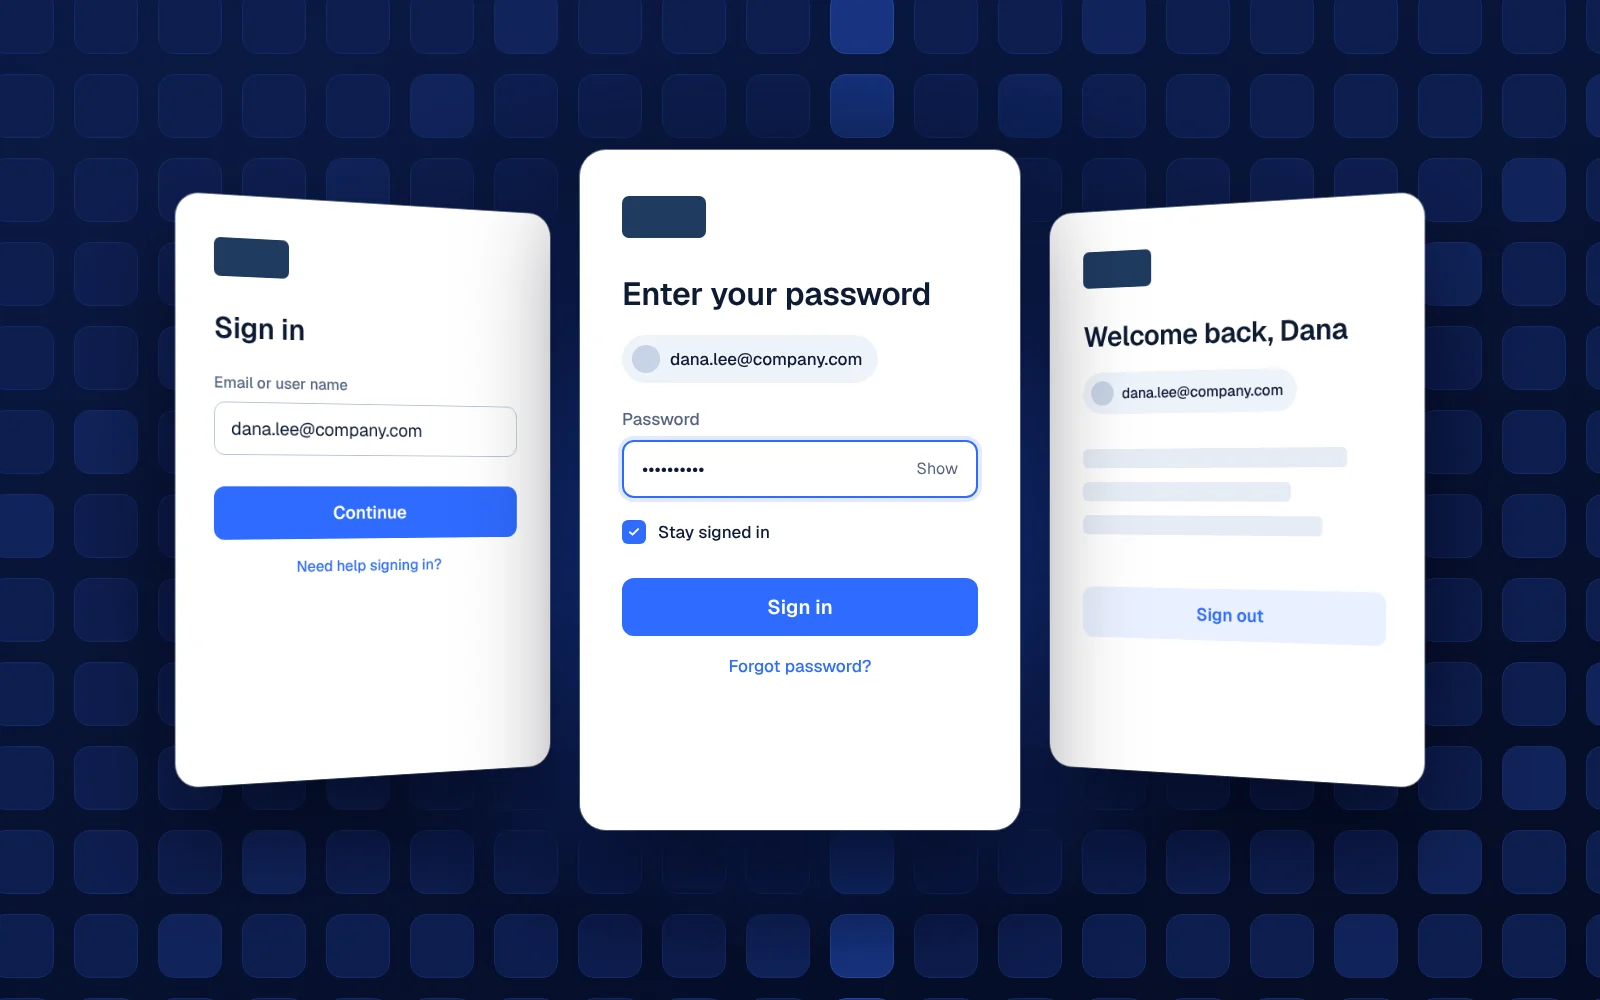
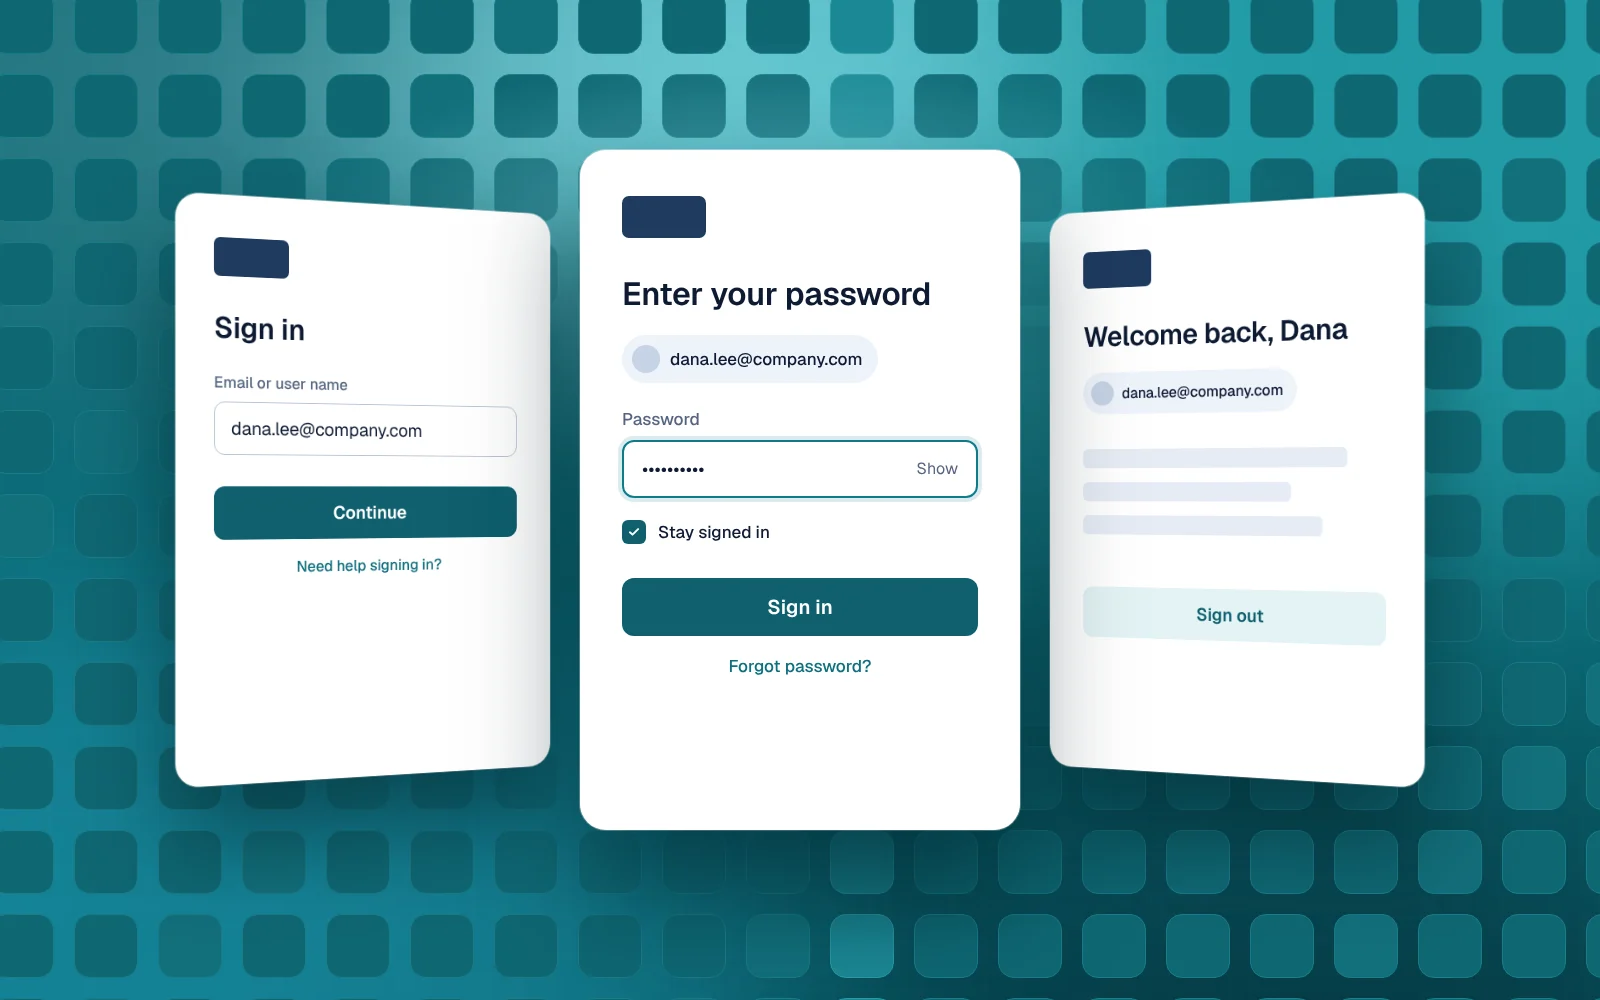
Covers take the palettes of their hover previews
Claude-Session: https://claude.ai/code/session_019w2zt4LnTxjnuLeFmr6vDP

diff --git a/tools/covers/crafted.html b/tools/covers/crafted.html
@@ -12,7 +12,7 @@ body{background:#222;display:grid;gap:40px;padding:40px;width:1680px;font-family
 svg{display:block}
 
 /* ---------- Agentic: indigo ---------- */
-#sap-agentic{background:radial-gradient(900px 620px at 37% 50%,#2B2F86 0%,#141A4E 42%,#0A0E2A 75%,#070A1D 100%)}
+#sap-agentic{background:radial-gradient(900px 620px at 37% 50%,#22307A 0%,#121B48 42%,#0B112E 75%,#080C21 100%)}
 #sap-agentic .card{position:absolute;background:#171D47;border:1.5px solid #3A4290;border-radius:22px;box-shadow:0 30px 60px rgba(3,5,20,.55),0 2px 0 rgba(255,255,255,.04) inset}
 #sap-agentic .doc{left:80px;width:370px;height:124px;display:flex;align-items:center;gap:22px;padding:0 28px}
 #sap-agentic .doc .ic{width:62px;height:62px;border-radius:14px;display:grid;place-items:center;flex:none}
@@ -30,75 +30,75 @@ svg{display:block}
 #sap-agentic .btn{height:52px;border-radius:12px;display:grid;place-items:center;font:600 19px/1 Geist;margin-top:16px}
 
 /* ---------- Search: copper ---------- */
-#sap-search{background:radial-gradient(760px 520px at 30% 18%,#7A3B12 0%,rgba(122,59,18,0) 70%),radial-gradient(900px 700px at 85% 100%,#4A1E10 0%,rgba(74,30,16,0) 70%),linear-gradient(160deg,#1C110B 0%,#120B07 60%,#0D0806 100%)}
-#sap-search .bar{position:absolute;left:230px;top:150px;width:1140px;height:116px;border-radius:30px;background:#22150D;border:2.5px solid #F2A65A;box-shadow:0 0 0 9px rgba(242,166,90,.12),0 0 70px rgba(242,140,60,.45),0 30px 60px rgba(0,0,0,.5);display:flex;align-items:center;padding:0 36px;gap:26px}
-#sap-search .q{font:500 44px/1 Geist;color:#FFF3E6;letter-spacing:-.01em;flex:1}
-#sap-search .q i{display:inline-block;width:3px;height:46px;background:#F2A65A;vertical-align:-9px;margin-left:5px}
-#sap-search .k{font:600 18px/1 Geist;color:#D8B898;background:#3A2516;border-radius:10px;padding:10px 14px}
-#sap-search .panel{position:absolute;left:230px;top:302px;width:1140px;height:560px;border-radius:30px;background:#1B110B;border:1.5px solid #4A3020;box-shadow:0 50px 90px rgba(0,0,0,.6);padding:34px 36px}
-#sap-search .ov{display:flex;align-items:center;gap:14px;font:500 22px/1.2 Geist;color:#F6DCC0;background:#2A1A10;border:1.5px solid #5A3A22;border-radius:16px;padding:18px 22px}
+#sap-search{background:url('../../public/images/mesh/sap-search-cover.webp') center/cover}
+#sap-search .bar{position:absolute;left:230px;top:150px;width:1140px;height:116px;border-radius:30px;background:#15134A;border:2.5px solid #B4ABFF;box-shadow:0 0 0 9px rgba(180,171,255,.16),0 0 70px rgba(150,140,255,.5),0 30px 60px rgba(8,6,40,.5);display:flex;align-items:center;padding:0 36px;gap:26px}
+#sap-search .q{font:500 44px/1 Geist;color:#F3F1FF;letter-spacing:-.01em;flex:1}
+#sap-search .q i{display:inline-block;width:3px;height:46px;background:#B4ABFF;vertical-align:-9px;margin-left:5px}
+#sap-search .k{font:600 18px/1 Geist;color:#C9C4F5;background:#272466;border-radius:10px;padding:10px 14px}
+#sap-search .panel{position:absolute;left:230px;top:302px;width:1140px;height:560px;border-radius:30px;background:#131140;border:1.5px solid #34318A;box-shadow:0 50px 90px rgba(8,6,40,.55);padding:34px 36px}
+#sap-search .ov{display:flex;align-items:center;gap:14px;font:500 22px/1.2 Geist;color:#E6E2FF;background:#1E1B5A;border:1.5px solid #3F3B9E;border-radius:16px;padding:18px 22px}
 #sap-search .chips{display:flex;gap:12px;margin:26px 0 12px}
-#sap-search .chips span{font:500 19px/1 Geist;color:#E8CBAE;background:#2D1D12;border-radius:999px;padding:13px 22px}
-#sap-search .chips span.on{background:#F2A65A;color:#2A1608}
+#sap-search .chips span{font:500 19px/1 Geist;color:#D6D2FA;background:#221F5E;border-radius:999px;padding:13px 22px}
+#sap-search .chips span.on{background:#8C80FF;color:#fff}
 #sap-search .row{display:flex;align-items:center;gap:24px;padding:18px 22px;border-radius:18px}
-#sap-search .row.hot{background:#33200F;box-shadow:0 0 0 1.5px #6A4426 inset}
-#sap-search .ring{width:46px;height:46px;border-radius:12px;background:#2B1C12;display:grid;place-items:center;flex:none}
-#sap-search .ring i{width:20px;height:20px;border-radius:50%;border:2.5px solid #C9A07A}
+#sap-search .row.hot{background:#232062;box-shadow:0 0 0 1.5px #4D48B8 inset}
+#sap-search .ring{width:46px;height:46px;border-radius:12px;background:#221F5E;display:grid;place-items:center;flex:none}
+#sap-search .ring i{width:20px;height:20px;border-radius:50%;border:2.5px solid #A7A0E8}
 #sap-search .t{flex:1;min-width:0}
-#sap-search .t b{display:block;font:500 25px/1.1 Geist;color:#FFF1E2;white-space:nowrap}
-#sap-search .t span{display:block;font:400 18px/1 Geist;color:#B8957A;margin-top:9px}
-#sap-search .src{width:190px;display:flex;align-items:center;gap:12px;font:500 19px/1 Geist;color:#E6CDB4}
+#sap-search .t b{display:block;font:500 25px/1.1 Geist;color:#F3F1FF;white-space:nowrap}
+#sap-search .t span{display:block;font:400 18px/1 Geist;color:#9F9AD6;margin-top:9px}
+#sap-search .src{width:190px;display:flex;align-items:center;gap:12px;font:500 19px/1 Geist;color:#D6D2FA}
 #sap-search .src i{width:14px;height:14px;border-radius:50%}
-#sap-search .act{width:150px;height:50px;border-radius:999px;display:grid;place-items:center;font:600 19px/1 Geist;color:#FFE4C7;border:1.5px solid #7A5130}
-#sap-search .act.p{background:#F2A65A;border-color:#F2A65A;color:#2A1608}
+#sap-search .act{width:150px;height:50px;border-radius:999px;display:grid;place-items:center;font:600 19px/1 Geist;color:#E6E2FF;border:1.5px solid #4D48B8}
+#sap-search .act.p{background:#8C80FF;border-color:#8C80FF;color:#fff}
 
 /* ---------- Collections: jade ---------- */
-#sap-collections{background:radial-gradient(800px 600px at 72% 40%,#0F6B5C 0%,rgba(15,107,92,0) 70%),linear-gradient(150deg,#06231F 0%,#041915 55%,#03110F 100%)}
+#sap-collections{background:url('../../public/images/mesh/sap-collections-cover.webp') center/cover}
 #sap-collections .wl{position:absolute;left:70px;top:150px;width:900px;height:700px;border-radius:26px;background:#F7FAF9;box-shadow:0 60px 100px rgba(0,0,0,.55);transform:perspective(1800px) rotateY(16deg) rotateX(4deg);transform-origin:0 50%;padding:34px 36px;overflow:hidden}
-#sap-collections .wl h3{font:600 28px/1 Geist;color:#13302B}
+#sap-collections .wl h3{font:600 28px/1 Geist;color:#0A2850}
 #sap-collections .wl .sub{font:400 18px/1 Geist;color:#5B7470;margin-top:10px}
 #sap-collections .wl .hd,#sap-collections .wl .r{display:grid;grid-template-columns:1.6fr 1fr 1fr 1fr;align-items:center;gap:14px}
 #sap-collections .wl .hd{margin-top:30px;padding:0 6px 14px;border-bottom:1.5px solid #DCE6E3;font:600 15px/1 Geist;color:#6B827E;letter-spacing:.06em;text-transform:uppercase}
 #sap-collections .wl .r{padding:20px 6px;border-bottom:1.5px solid #E7EEEC;font:500 20px/1 Geist;color:#13302B}
 #sap-collections .wl .r small{display:block;font:400 15px/1 Geist;color:#6B827E;margin-top:7px}
 #sap-collections .pr{display:inline-flex;align-items:center;gap:8px;font:600 16px/1 Geist;border-radius:8px;padding:8px 11px}
-#sap-collections .nba{position:absolute;left:880px;top:270px;width:620px;height:470px;border-radius:28px;background:#0E2E29;border:2px solid #3FC7A8;box-shadow:0 0 0 9px rgba(63,199,168,.10),0 0 80px rgba(63,199,168,.35),0 50px 90px rgba(0,0,0,.6);padding:38px 40px}
-#sap-collections .nba .ov{font:600 16px/1 Geist;color:#7FE3C9;letter-spacing:.12em;text-transform:uppercase;display:flex;align-items:center;gap:10px}
-#sap-collections .nba h3{font:500 34px/1.2 Geist;color:#F1FFFB;margin-top:22px;letter-spacing:-.01em}
+#sap-collections .nba{position:absolute;left:880px;top:270px;width:620px;height:470px;border-radius:28px;background:#0A2850;border:2px solid #7CC8F2;box-shadow:0 0 0 9px rgba(124,200,242,.14),0 0 80px rgba(124,200,242,.4),0 50px 90px rgba(2,16,40,.55);padding:38px 40px}
+#sap-collections .nba .ov{font:600 16px/1 Geist;color:#9AD6F7;letter-spacing:.12em;text-transform:uppercase;display:flex;align-items:center;gap:10px}
+#sap-collections .nba h3{font:500 34px/1.2 Geist;color:#F2F9FF;margin-top:22px;letter-spacing:-.01em}
 #sap-collections .nba ul{list-style:none;margin-top:26px;display:grid;gap:14px}
-#sap-collections .nba li{display:flex;gap:14px;font:400 20px/1.35 Geist;color:#BFE3DA}
-#sap-collections .nba li i{width:8px;height:8px;border-radius:50%;background:#3FC7A8;margin-top:10px;flex:none}
+#sap-collections .nba li{display:flex;gap:14px;font:400 20px/1.35 Geist;color:#BFD8EC}
+#sap-collections .nba li i{width:8px;height:8px;border-radius:50%;background:#7CC8F2;margin-top:10px;flex:none}
 #sap-collections .nba .btns{display:flex;gap:14px;margin-top:36px}
 #sap-collections .nba .btns span{height:56px;border-radius:14px;padding:0 28px;display:grid;place-items:center;font:600 20px/1 Geist}
-#sap-collections .who{position:absolute;left:1180px;top:770px;display:flex;align-items:center;gap:14px;background:#F1FFFB;color:#0E2E29;border-radius:999px;padding:14px 24px 14px 14px;font:600 19px/1 Geist;box-shadow:0 20px 40px rgba(0,0,0,.45)}
-#sap-collections .who i{width:36px;height:36px;border-radius:50%;background:#0E2E29;display:grid;place-items:center}
+#sap-collections .who{position:absolute;left:1180px;top:770px;display:flex;align-items:center;gap:14px;background:#F2F9FF;color:#0A2850;border-radius:999px;padding:14px 24px 14px 14px;font:600 19px/1 Geist;box-shadow:0 20px 40px rgba(0,0,0,.45)}
+#sap-collections .who i{width:36px;height:36px;border-radius:50%;background:#0A2850;display:grid;place-items:center}
 
 /* ---------- Sign-in: cobalt ---------- */
-#sap-signin{background:radial-gradient(760px 560px at 50% 55%,#1F4FC2 0%,rgba(31,79,194,0) 72%),linear-gradient(160deg,#0A1A45 0%,#071233 55%,#050C24 100%)}
+#sap-signin{background:url('../../public/images/mesh/sap-signin-cover.webp') center/cover}
 #sap-signin .tiles{position:absolute;inset:-40px;display:grid;grid-template-columns:repeat(22,64px);gap:20px;padding:30px;-webkit-mask-image:radial-gradient(ellipse at 50% 50%,transparent 26%,#000 60%)}
-#sap-signin .tiles i{width:64px;height:64px;border-radius:16px;background:#0D1D4E;border:1.5px solid #152B66}
-#sap-signin .tiles i:nth-child(7n){background:#10235A}
-#sap-signin .tiles i:nth-child(11n){background:#173480;border-color:#24479A}
-#sap-signin .card{position:absolute;top:170px;width:440px;height:640px;border-radius:26px;background:#FFFFFF;box-shadow:0 60px 110px rgba(0,4,20,.6),0 0 0 1px rgba(255,255,255,.4);padding:46px 42px}
+#sap-signin .tiles i{width:64px;height:64px;border-radius:16px;background:#0F6773;border:1.5px solid #1A7C88}
+#sap-signin .tiles i:nth-child(7n){background:#126F7B}
+#sap-signin .tiles i:nth-child(11n){background:#1B8794;border-color:#2B9AA6}
+#sap-signin .card{position:absolute;top:170px;width:440px;height:640px;border-radius:26px;background:#FFFFFF;box-shadow:0 60px 110px rgba(2,30,36,.55),0 0 0 1px rgba(255,255,255,.4);padding:46px 42px}
 #sap-signin .logo{width:84px;height:42px;border-radius:7px;background:#1F3A5F}
 #sap-signin h4{font:600 32px/1.1 Geist;color:#0E1B33;margin-top:38px;letter-spacing:-.01em}
 #sap-signin .lab{font:500 17px/1 Geist;color:#556580;margin-top:34px}
 #sap-signin .in{height:58px;border-radius:12px;border:1.5px solid #B7C2D3;margin-top:12px;display:flex;align-items:center;padding:0 18px;font:400 20px/1 Geist;color:#0E1B33}
-#sap-signin .in.f{border:2px solid #2F6BFF;box-shadow:0 0 0 4px rgba(47,107,255,.15)}
-#sap-signin .cta{height:58px;border-radius:12px;background:#2F6BFF;color:#fff;font:600 20px/1 Geist;display:grid;place-items:center;margin-top:34px}
-#sap-signin .lnk{font:500 17px/1 Geist;color:#2F6BFF;margin-top:22px;text-align:center}
+#sap-signin .in.f{border:2px solid #0F7C8C;box-shadow:0 0 0 4px rgba(15,124,140,.15)}
+#sap-signin .cta{height:58px;border-radius:12px;background:#0F5F6E;color:#fff;font:600 20px/1 Geist;display:grid;place-items:center;margin-top:34px}
+#sap-signin .lnk{font:500 17px/1 Geist;color:#0F6E7E;margin-top:22px;text-align:center}
 #sap-signin .chip{display:inline-flex;align-items:center;gap:10px;margin-top:24px;background:#EEF3FB;border-radius:999px;padding:10px 16px 10px 10px;font:500 17px/1 Geist;color:#0E1B33}
 #sap-signin .chip i{width:28px;height:28px;border-radius:50%;background:#C7D3E6}
 
 /* ---------- Compositional: violet ---------- */
-#sap-compositional{background:radial-gradient(760px 600px at 46% 56%,#5B2AA8 0%,rgba(91,42,168,0) 70%),radial-gradient(700px 500px at 95% 10%,#7A1F6E 0%,rgba(122,31,110,0) 70%),linear-gradient(160deg,#170B33 0%,#100726 60%,#0B051C 100%)}
+#sap-compositional{background:url('../../public/images/mesh/sap-compositional-cover.webp') center/cover}
 #sap-compositional .prompt{position:absolute;left:90px;top:120px;display:flex;align-items:center;gap:16px;background:#F6F1FF;border-radius:999px;padding:20px 30px 20px 20px;font:500 25px/1 Geist;color:#1E1240;box-shadow:0 30px 60px rgba(0,0,0,.45)}
 #sap-compositional .prompt i{width:44px;height:44px;border-radius:50%;background:#7B4DFF;display:grid;place-items:center}
 #sap-compositional .stack{position:absolute;left:110px;top:380px;width:480px;height:520px}
 #sap-compositional .pl{position:absolute;left:0;width:400px;height:400px;border-radius:40px;transform:rotateX(58deg) rotateZ(-42deg);transform-origin:50% 50%;box-shadow:0 30px 50px rgba(0,0,0,.45)}
 #sap-compositional .stage3d{position:absolute;inset:0;perspective:2400px}
-#sap-compositional .tag{position:absolute;left:600px;flex-direction:row-reverse;font:600 18px/1 Geist;letter-spacing:.12em;text-transform:uppercase;display:flex;align-items:center;gap:14px;color:#E9DEFF}
-#sap-compositional .tag i{width:60px;height:1.5px;background:#9C82E8}
+#sap-compositional .tag{position:absolute;left:600px;flex-direction:row-reverse;font:600 18px/1 Geist;letter-spacing:.12em;text-transform:uppercase;display:flex;align-items:center;gap:14px;color:#FFFFFF;text-shadow:0 1px 2px rgba(30,15,80,.4)}
+#sap-compositional .tag i{width:60px;height:1.5px;background:#E4DAFF}
 #sap-compositional .ui{position:absolute;left:930px;top:250px;width:560px;height:545px;border-radius:28px;background:#FBF9FF;box-shadow:0 0 0 9px rgba(160,120,255,.14),0 0 90px rgba(140,90,255,.45),0 60px 100px rgba(0,0,0,.55);padding:36px}
 #sap-compositional .ui h5{font:600 26px/1.15 Geist;color:#1E1240}
 #sap-compositional .ui .kp{display:grid;grid-template-columns:1fr 1fr;gap:16px;margin-top:26px}
@@ -143,14 +143,14 @@ svg{display:block}
 <!-- 2 · Search: one query, results you can act on -->
 <div class="c" id="sap-search">
   <div class="bar">
-    <svg width="40" height="40" viewBox="0 0 24 24" fill="none" stroke="#F2C08E" stroke-width="2" stroke-linecap="round"><circle cx="10.5" cy="10.5" r="6.5"/><path d="M15.5 15.5L20 20"/></svg>
+    <svg width="40" height="40" viewBox="0 0 24 24" fill="none" stroke="#C9C4F5" stroke-width="2" stroke-linecap="round"><circle cx="10.5" cy="10.5" r="6.5"/><path d="M15.5 15.5L20 20"/></svg>
     <div class="q">purchase<i></i></div><span class="k">⌘ K</span>
   </div>
   <div class="panel">
-    <div class="ov"><svg width="26" height="26" viewBox="0 0 24 24" fill="#F2A65A"><path d="M12 3l1.9 5.2 5.1 1.8-5.1 1.9L12 17.5l-1.9-5.1L5 10.5l5.1-1.8z"/></svg>Two items need you today: one approval and one follow up.</div>
+    <div class="ov"><svg width="26" height="26" viewBox="0 0 24 24" fill="#B4ABFF"><path d="M12 3l1.9 5.2 5.1 1.8-5.1 1.9L12 17.5l-1.9-5.1L5 10.5l5.1-1.8z"/></svg>Two items need you today: one approval and one follow up.</div>
     <div class="chips"><span class="on">All</span><span>Orders</span><span>Travel</span><span>Contracts</span></div>
-    <div class="row"><span class="ring"><i></i></span><span class="t"><b>PO 4500012345 · Northwind Office Supplies</b><span>Purchase order · Updated today</span></span><span class="src"><i style="background:#F2A65A"></i>Procurement</span><span class="act">Follow up</span></div>
-    <div class="row hot"><span class="ring"><i style="border-color:#F2A65A"></i></span><span class="t"><b>PR 7800098765 · IT equipment request</b><span>Purchase requisition · Awaiting you</span></span><span class="src"><i style="background:#F2A65A"></i>Procurement</span><span class="act p">Approve</span></div>
+    <div class="row"><span class="ring"><i></i></span><span class="t"><b>PO 4500012345 · Northwind Office Supplies</b><span>Purchase order · Updated today</span></span><span class="src"><i style="background:#8C80FF"></i>Procurement</span><span class="act">Follow up</span></div>
+    <div class="row hot"><span class="ring"><i style="border-color:#B4ABFF"></i></span><span class="t"><b>PR 7800098765 · IT equipment request</b><span>Purchase requisition · Awaiting you</span></span><span class="src"><i style="background:#8C80FF"></i>Procurement</span><span class="act p">Approve</span></div>
     <div class="row"><span class="ring"><i></i></span><span class="t"><b>Business trip · SFO → BLR</b><span>Travel request · Approved</span></span><span class="src"><i style="background:#5FD3B0"></i>Travel</span><span class="act">Open</span></div>
     <div class="row"><span class="ring"><i></i></span><span class="t"><b>Contract CNT-2026-001 · Facilities</b><span>Contract · Expires in 41 days</span></span><span class="src"><i style="background:#E7D27A"></i>Contracts</span><span class="act">Open</span></div>
   </div>
@@ -169,16 +169,16 @@ svg{display:block}
     <div class="r"><span>Copperline Retail<small>2 company codes</small></span><span>€ 27,640</span><span><span class="pr" style="background:#E3F1EE;color:#1F5C51">✦ Medium</span></span><span>Reminder</span></div>
   </div>
   <div class="nba">
-    <div class="ov"><svg width="22" height="22" viewBox="0 0 24 24" fill="#7FE3C9"><path d="M12 3l1.9 5.2 5.1 1.8-5.1 1.9L12 17.5l-1.9-5.1L5 10.5l5.1-1.8z"/></svg>Next best action</div>
+    <div class="ov"><svg width="22" height="22" viewBox="0 0 24 24" fill="#9AD6F7"><path d="M12 3l1.9 5.2 5.1 1.8-5.1 1.9L12 17.5l-1.9-5.1L5 10.5l5.1-1.8z"/></svg>Next best action</div>
     <h3>Send Northwind a reminder with the two open credit notes</h3>
     <ul>
       <li><i></i>Three invoices are 45 days past due</li>
       <li><i></i>Two credit notes can offset part of the balance</li>
       <li><i></i>No contact in the last 14 days</li>
     </ul>
-    <div class="btns"><span style="background:#3FC7A8;color:#062520">Approve and draft</span><span style="border:1.5px solid #3FC7A8;color:#D8FFF4">Edit</span></div>
+    <div class="btns"><span style="background:#7CC8F2;color:#06213F">Approve and draft</span><span style="border:1.5px solid #7CC8F2;color:#E4F4FF">Edit</span></div>
   </div>
-  <div class="who"><i><svg width="20" height="20" viewBox="0 0 24 24" fill="none" stroke="#F1FFFB" stroke-width="2.2" stroke-linecap="round"><circle cx="12" cy="9" r="3.6"/><path d="M5.5 19c1.4-2.8 3.7-4.2 6.5-4.2s5.1 1.4 6.5 4.2"/></svg></i>A person decides</div>
+  <div class="who"><i><svg width="20" height="20" viewBox="0 0 24 24" fill="none" stroke="#F2F9FF" stroke-width="2.2" stroke-linecap="round"><circle cx="12" cy="9" r="3.6"/><path d="M5.5 19c1.4-2.8 3.7-4.2 6.5-4.2s5.1 1.4 6.5 4.2"/></svg></i>A person decides</div>
 </div>
 
 <!-- 4 · Sign-in: many apps around, one sign-in card, its three steps -->
@@ -197,13 +197,13 @@ svg{display:block}
       <div style="height:22px;border-radius:6px;background:#E6ECF5;width:70%"></div>
       <div style="height:22px;border-radius:6px;background:#E6ECF5;width:80%"></div>
     </div>
-    <div class="cta" style="background:#E9F0FF;color:#2F6BFF;margin-top:60px">Sign out</div>
+    <div class="cta" style="background:#E3F3F5;color:#0F5F6E;margin-top:60px">Sign out</div>
   </div>
   <div class="card" style="left:580px;top:150px;height:680px;z-index:2">
     <div class="logo"></div><h4>Enter your password</h4>
     <div class="chip"><i></i>dana.lee@company.com</div>
     <div class="lab" style="margin-top:28px">Password</div><div class="in f">••••••••••<span style="margin-left:auto;font-size:16px;color:#556580">Show</span></div>
-    <div style="display:flex;align-items:center;gap:12px;margin-top:22px;font:500 17px/1 Geist;color:#0E1B33"><span style="width:24px;height:24px;border-radius:6px;background:#2F6BFF;display:grid;place-items:center"><svg width="14" height="14" viewBox="0 0 24 24" fill="none" stroke="#fff" stroke-width="3.4" stroke-linecap="round" stroke-linejoin="round"><path d="M5 12.5l4.5 4L19 7"/></svg></span>Stay signed in</div>
+    <div style="display:flex;align-items:center;gap:12px;margin-top:22px;font:500 17px/1 Geist;color:#0E1B33"><span style="width:24px;height:24px;border-radius:6px;background:#0F5F6E;display:grid;place-items:center"><svg width="14" height="14" viewBox="0 0 24 24" fill="none" stroke="#fff" stroke-width="3.4" stroke-linecap="round" stroke-linejoin="round"><path d="M5 12.5l4.5 4L19 7"/></svg></span>Stay signed in</div>
     <div class="cta">Sign in</div><div class="lnk">Forgot password?</div>
   </div>
 </div>
